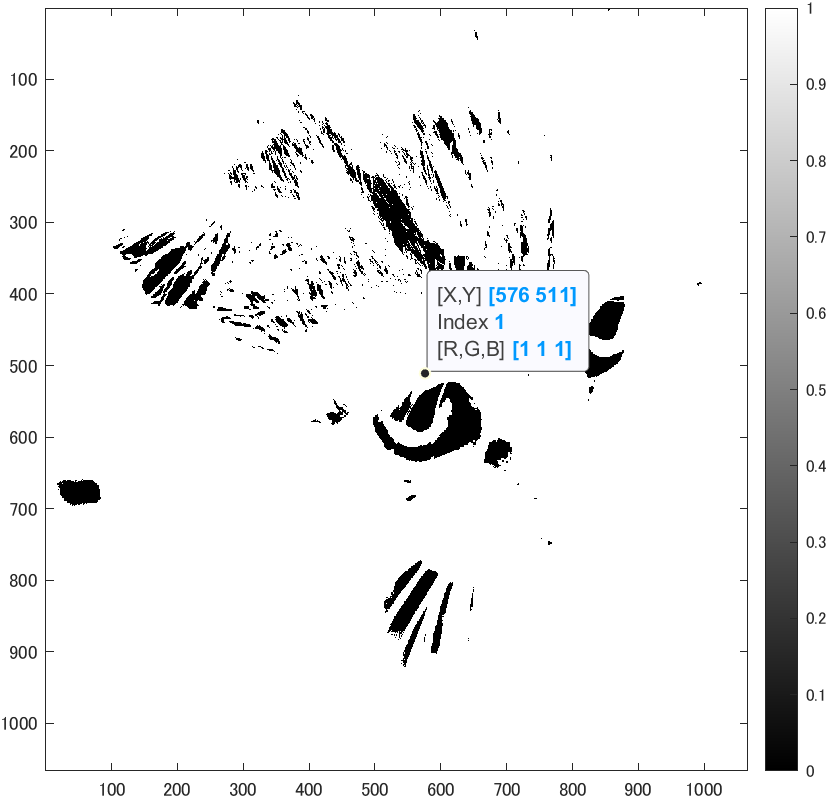
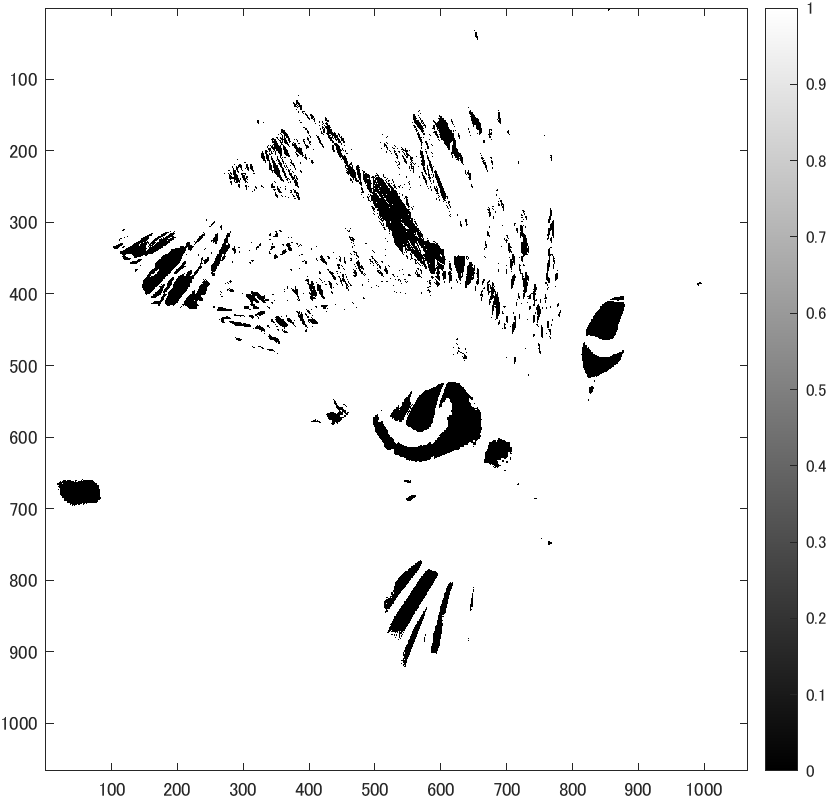
kadai3の修正

Changed region(s): [[0.5133, 0.3308, 0.7246, 0.4812]]

diff --git a/kadai3/kadai3.md b/kadai3/kadai3.md
@@ -37,7 +37,7 @@ imagesc(IMG); colormap(gray); colorbar;
 
 によって、白黒濃淡画像（輝度値が96以上の画素を1，その他を0に変換）を作成し表示した。結果を図3に示す。
 
-![kadai3_3](https://user-images.githubusercontent.com/50776559/71319962-43661e80-24e8-11ea-994f-a5f531a420e5.png)
+![kadai3_3](https://user-images.githubusercontent.com/50776559/71320112-3c401000-24ea-11ea-809d-94eef40b0222.png)
 図3 白黒濃淡画像（輝度値が96以上の画素を1，その他を0に変換）
 
 ## 輝度値が128以上の画素を1，その他を0に変換
@@ -49,7 +49,7 @@ imagesc(IMG); colormap(gray); colorbar;
 
 によって、白黒濃淡画像（輝度値が128以上の画素を1，その他を0に変換）を作成し表示した。結果を図4に示す。
 
-![kadai3_4](https://user-images.githubusercontent.com/50776559/71319964-43feb500-24e8-11ea-9353-ca19aa5c59b0.png)
+![kadai3_4](https://user-images.githubusercontent.com/50776559/71320113-3c401000-24ea-11ea-94b0-132d672bb745.png)
 図4 白黒濃淡画像（輝度値が128以上の画素を1，その他を0に変換）
 
 ## 輝度値が192以上の画素を1，その他を0に変換
@@ -61,5 +61,5 @@ imagesc(IMG); colormap(gray); colorbar;
 
 によって、白黒濃淡画像（輝度値が192以上の画素を1，その他を0に変換）を作成し表示した。結果を図5に示す。
 
-![kadai3_5](https://user-images.githubusercontent.com/50776559/71319965-43feb500-24e8-11ea-9a5a-1e793f10df0b.png)
+![kadai3_5](https://user-images.githubusercontent.com/50776559/71320117-406c2d80-24ea-11ea-8e85-2b77a7d82bf1.png)
 図5 白黒濃淡画像（輝度値が192以上の画素を1，その他を0に変換）
